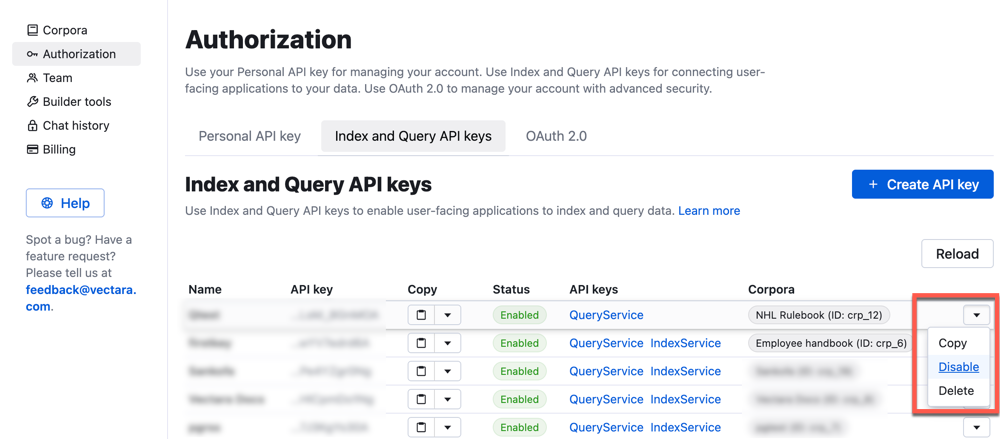
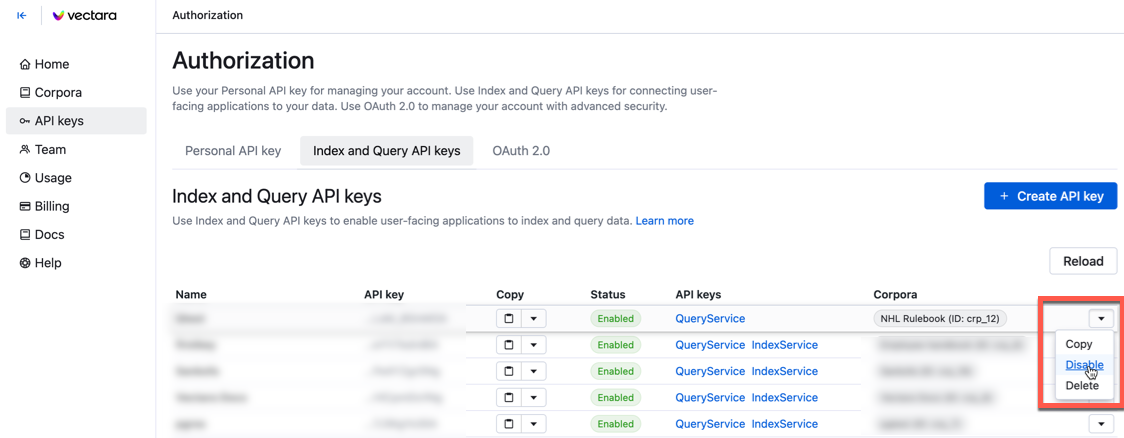
docs(enhance): Add detailed mapping of endpoints to required API key types (#477)

diff --git a/www/docs/learn/authentication/api-key-management.md b/www/docs/learn/authentication/api-key-management.md
@@ -43,8 +43,8 @@ This guide helps you:
 | API Key Type      | Key Prefix | Allowed Operations                  | Scope           | Recommended Usage                     |
 |-------------------|------------|-------------------------------------|------------------|----------------------------------------|
 | Personal Key      | `zut_`     | All user-level operations           | Account-wide     | Admin tasks, Developers for testing, internal scripts |
-| Query Key         | `zqt_`     | Read-only search                    | Corpus-specific  | Developers for public-facing search, front-end apps   |
-| Index Key         | `zwt_`     | Index and query                       | Corpus-specific  | Developers for ingestion and server-side testing       |
+| QueryService Key         | `zqt_`     | Read-only search                    | Corpus-specific  | Developers for public-facing search, front-end apps   |
+| IndexService Key         | `zwt_`     | Index and query                       | Corpus-specific  | Developers for ingestion and server-side testing       |
 
 ## Best practices
 
@@ -52,7 +52,7 @@ This guide helps you:
 - ✅ Apply the **principle of least privilege** by assigning the minimal set of 
   permissions needed to accomplish your goal
 - 🔄 Rotate API keys periodically and revoke unused ones
-- 🔒 Never embed Personal or Index keys in client-side code. Store them on your 
+- 🔒 Never embed Personal or IndexService keys in client-side code. Store them on your 
   server instead.
 
 ### Personal API key
@@ -79,18 +79,18 @@ billing admin-related permissions. Because of their broad access, treat
 Personal API Keys with the same caution as passwords.
 :::
 
-### Query API keys
+### QueryService API keys
 
-We recommend Query API keys for read-only querying operations and for 
+We recommend QueryService API keys for read-only querying operations and for 
 developers embedding in code that runs in potentially insecure environments 
 like web browsers or mobile apps. Query API Keys provide the least amount of 
 risk because they have a limited scope and do not modify account data.
 
-### Index API keys
+### IndexService API keys
 
-Index API Keys offer a practical solution for Developers and ML Engineers 
+IndexService API Keys offer a practical solution for Developers and ML Engineers 
 needing read and write access during development and testing phases. Because 
-they also provide write access, Index API Keys are more powerful than Query 
+they also provide write access, IndexService API Keys are more powerful than Query 
 API Keys and should be treated like passwords and used with caution in 
 production environments.
 
@@ -106,16 +106,91 @@ can lead to unauthorized access. Treat these keys with the same
 confidentiality as your personal credentials. 
 :::
 
+## Vectara API endpoints and required API key types
+
+This table lists all endpoints, HTTP methods, their summary, and which API key 
+types are allowed for each. 
+
+:::tip
+The Personal Key is always allowed anywhere a more restricted key is allowed 
+(except admin-only endpoints).
+:::
+
+| Method | Path | Summary | Allowed Key Types |
+|--------|------|---------|-------------------|
+| POST | `/v2/corpora` | Create a corpus | Personal Key |
+| GET | `/v2/corpora` | List corpora | QueryService Key, Personal Key |
+| GET | `/v2/corpora/{corpus_key}` | Retrieve metadata about a corpus | QueryService Key, Personal Key |
+| DELETE | `/v2/corpora/{corpus_key}` | Delete a corpus and all its data | Personal Key |
+| PATCH | `/v2/corpora/{corpus_key}` | Update a corpus | Personal Key |
+| POST | `/v2/corpora/{corpus_key}/reset` | Remove all documents and data in a corpus | Personal Key |
+| POST | `/v2/corpora/{corpus_key}/replace_filter_attributes` | Replace the filter attributes of a corpus | Personal Key |
+| POST | `/v2/corpora/{corpus_key}/compute_size` | Compute the current size of a corpus | Personal Key |
+| POST | `/v2/corpora/{corpus_key}/upload_file` | Upload a file to the corpus | Personal Key |
+| POST | `/v2/corpora/{corpus_key}/documents` | Add a document to a corpus | Personal Key |
+| GET | `/v2/corpora/{corpus_key}/documents` | List the documents in the corpus | QueryService Key, Personal Key |
+| DELETE | `/v2/corpora/{corpus_key}/documents/{document_id}` | Delete a document | Personal Key |
+| GET | `/v2/corpora/{corpus_key}/documents/{document_id}` | Retrieve a document | QueryService Key, Personal Key |
+| PATCH | `/v2/corpora/{corpus_key}/documents/{document_id}` | Update document, merging the metadata. | Personal Key |
+| PUT | `/v2/corpora/{corpus_key}/documents/{document_id}/metadata` | Replace the document metadata. | IndexService Key, Personal Key |
+| POST | `/v2/corpora/{corpus_key}/documents/{document_id}/summarize` | Summarize a document | Personal Key |
+| GET | `/v2/corpora/{corpus_key}/query` | Simple Single Corpus Query | QueryService Key, Personal Key |
+| POST | `/v2/corpora/{corpus_key}/query` | Advanced Single Corpus Query | QueryService Key, Personal Key |
+| POST | `/v2/query` | Multiple Corpora Query | QueryService Key, Personal Key |
+| GET | `/v2/queries/{query_id}` | Get a query history | QueryService Key, Personal Key |
+| GET | `/v2/queries` | List the history of previous queries | QueryService Key, Personal Key |
+| POST | `/v2/chats` | Start a chat | IndexService Key, Personal Key |
+| GET | `/v2/chats` | List chats | QueryService Key, Personal Key |
+| GET | `/v2/chats/{chat_id}` | Get a chat | QueryService Key, Personal Key |
+| DELETE | `/v2/chats/{chat_id}` | Delete a chat | Personal Key |
+| POST | `/v2/chats/{chat_id}/turns` | Create a new turn in the chat | IndexService Key, Personal Key |
+| GET | `/v2/chats/{chat_id}/turns` | List turns in a chat | QueryService Key, Personal Key |
+| GET | `/v2/chats/{chat_id}/turns/{turn_id}` | Get a turn | QueryService Key, Personal Key |
+| DELETE | `/v2/chats/{chat_id}/turns/{turn_id}` | Delete a turn | Personal Key |
+| PATCH | `/v2/chats/{chat_id}/turns/{turn_id}` | Update a turn | IndexService Key, Personal Key |
+| POST | `/v2/llms` | Create an LLM | IndexService Key, Personal Key |
+| GET | `/v2/llms` | List LLMs | QueryService Key, Personal Key |
+| GET | `/v2/llms/{llm_id}` | Get an LLM | QueryService Key, Personal Key |
+| DELETE | `/v2/llms/{llm_id}` | Delete an LLM | Personal Key |
+| POST | `/v2/llms/chat/completions` | Creates a model response for the given chat conversation | IndexService Key, Personal Key |
+| GET | `/v2/generation_presets` | List generation presets | QueryService Key, Personal Key |
+| POST | `/v2/evaluate_factual_consistency` | Evaluate factual consistency | Personal Key |
+| POST | `/v2/encoders` | Create an encoder | IndexService Key, Personal Key |
+| GET | `/v2/encoders` | List encoders | QueryService Key, Personal Key |
+| GET | `/v2/rerankers` | List rerankers | QueryService Key, Personal Key |
+| GET | `/v2/table_extractors` | List supported table extractors | QueryService Key, Personal Key |
+| GET | `/v2/hallucination_correctors` | List hallucination correctors | QueryService Key, Personal Key |
+| POST | `/v2/hallucination_correctors/correct_hallucinations` | Corrects hallucinations in generated text based on source documents | Personal Key |
+| GET | `/v2/jobs` | List jobs | QueryService Key, Personal Key |
+| GET | `/v2/jobs/{job_id}` | Get a job by ID | QueryService Key, Personal Key |
+| POST | `/v2/users` | Create a user in the current customer account | Personal Key |
+| GET | `/v2/users` | List users in the account | Personal Key |
+| GET | `/v2/users/{username}` | Get a user | Personal Key |
+| PATCH | `/v2/users/{username}` | Update a user | Personal Key |
+| DELETE | `/v2/users/{username}` | Delete a user | Personal Key |
+| POST | `/v2/users/{username}/reset_password` | Reset the password for a user | Personal Key |
+| POST | `/v2/api_keys` | Create an API key | Personal Key |
+| GET | `/v2/api_keys` | List API keys | Personal Key |
+| GET | `/v2/api_keys/{api_key_id}` | Get an API key | Personal Key |
+| PATCH | `/v2/api_keys/{api_key_id}` | Update an API key | Personal Key |
+| DELETE | `/v2/api_keys/{api_key_id}` | Delete an API key | Personal Key |
+| POST | `/v2/app_clients` | Create an App Client | IndexService Key, Personal Key |
+| GET | `/v2/app_clients` | List App Clients | QueryService Key, Personal Key |
+| GET | `/v2/app_clients/{app_client_id}` | Get an App Client | QueryService Key, Personal Key |
+| PATCH | `/v2/app_clients/{app_client_id}` | Update an App Client | IndexService Key, Personal Key |
+| DELETE | `/v2/app_clients/{app_client_id}` | Delete an App Client | Personal Key |
+| POST | `/oauth/token` | Request an access token | Personal Key |
+
 ## Create an API key
 
 You can easily create a [Personal API key](/docs/console-ui/personal-api-key) or 
-an [Index or Query API Key](/docs/console-ui/index-and-query-api-keys), 
+an [IndexService or QueryService API Key](/docs/console-ui/index-and-query-api-keys), 
 and then simply embed the API key and directly pass it to <Config v="names.product"/> when 
 issuing requests. 
 
 ## Use an API key
 
-To use a Personal, Index, or Query API key, pass it using the `x-api-key` 
+To use a Personal, IndexService, or QueryService API key, pass it using the `x-api-key` 
 header request.
 
 <Tabs
@@ -205,17 +280,18 @@ END
 </Tabs>
 
 ### Common issues and how to resolve them
+
 | Issue                            | Cause                                      | Fix                                               |
 |----------------------------------|--------------------------------------------|----------------------------------------------------|
 | 403: Permission Denied           | Key not scoped to corpus                   | Recreate key with correct `corpus_key`             |
 | 401: Unauthorized                | Invalid or missing key in header           | Ensure `x-api-key` is correctly included           |
-| Indexing fails with Query key   | Used wrong key type                        | Use Index (`zwt_`) or Personal (`zut_`) key        |
-| Personal key used in browser    | Security vulnerability                     | Use Query key for public search apps               |
+| Indexing fails with Query key   | Used wrong key type                        | Use IndexService (`zwt_`) or Personal (`zut_`) key        |
+| Personal key used in browser    | Security vulnerability                     | Use QueryService key for public search apps               |
 
 
 ## Disable, enable, and delete API keys
 
-To temporarily disable access to an API key, navigate to the **Authorization** tab. 
+To temporarily disable access to an API key, navigate to the **API keys** tab. 
 
 ### Disable a personal API key
 
@@ -224,12 +300,12 @@ the Personal API key from this menu.
 
 ![Disable Personal API Key](/img/disable_personal_api_key.png)
 
-### Disable an index or query API key
+### Disable an IndexService or QueryService key
 
 Click the **drop-down menu** and select **Disable**. This menu also lets you 
 copy, delete, and reenable the API key.
 
-![Disable Index or Query API Key](/img/disable_index_query_api_key.png)
+![Disable IndexService or QueryService API Key](/img/disable_index_query_api_key.png)
 
 It will take around a minute for query requests using this key to be blocked.
 

diff --git a/www/docs/learn/authentication/choose-auth-method.md b/www/docs/learn/authentication/choose-auth-method.md
@@ -38,14 +38,14 @@ with APIs or an Admin configuring secure access:
 | Scenario                                       | Recommended Method                     | Why This Works                                                                 | Workflows                                                                 |
 |-----------------------------------------------|---------------------------------------|--------------------------------------------------------------------------------|---------------------------------------------------------------------------------|
 | Explore the API or prototype                  | ✅ Personal API Key (`zut_`)          | Simplest setup <br/><br/>Grants full account access across corpora for testing.         | A Developer tests ingestion in a sandbox; an Admin creates corpora for setup.   |
-| Build a public search UI                      | ✅ Query API Key (`zqt_`)             | Read-only, corpus-scoped <br/><br/>Safe for frontend apps like web/mobile interfaces.   | An App Developer embeds search in a help center for End Users to browse FAQs.   |
-| Index documents securely from a backend       | ✅ Index API Key (`zwt_`)             | Enables indexing and querying <br/><br/>Secure for backend services if protected.       | An ML Engineer indexes CMS data for RAG optimization in a secure environment.  |
+| Build a public search UI                      | ✅ QueryService API Key (`zqt_`)             | Read-only, corpus-scoped <br/><br/>Safe for frontend apps like web/mobile interfaces.   | An App Developer embeds search in a help center for End Users to browse FAQs.   |
+| Index documents securely from a backend       | ✅ IndexService API Key (`zwt_`)             | Enables indexing and querying <br/><br/>Secure for backend services if protected.       | An ML Engineer indexes CMS data for RAG optimization in a secure environment.  |
 | Control client roles in production            | ✅ OAuth 2.0 Token (JWT)              | Role-based, expiring tokens (30 min) <br/><br/>Ideal for service-to-service access.     | A Dev Team Lead deploys a microservice querying corpora with user-specific roles. |
 | Automate token rotation                       | ✅ OAuth 2.0 Token (JWT)              | Built-in expiration reduces risk of long-lived credentials.                   | An Admin automates secure workflows for Client Apps.                           |
 | Prevent accidental key leaks                  | ✅ OAuth 2.0 Token (JWT)              | Short-lived tokens are harder to misuse <br/><br/>Detectable by security tools.         | A Client App serves End Users with minimal exposure risk.                       |
-| Access APIs beyond indexing/querying (e.g., admin tasks) | ✅ OAuth 2.0 Token (JWT)   | Supports broader permissions (such as corpus creation) with role-based control.  | An Admin manages API keys or corpora via secure tokens.                        |
+| Access APIs beyond indexing/querying (administration tasks) | ✅ OAuth 2.0 Token (JWT)   | Supports broader permissions (such as corpus creation) with role-based control.  | An Admin manages API keys or corpora via secure tokens.                        |
 | Secure backend server access                  | ✅ API Key (Server) or ✅ OAuth 2.0    | API keys work if secured <br/><br/>OAuth expiring tokens are safer for production.    | A Developer runs a backend service accessing corpora securely.                  |
-| Use in browser/client-side code               | ✅ Query API Key (`zqt_`)             | Read-only, safe for public exposure <br/><br/>OAuth unsuitable for frontend.            | A Developer builds a public UI for End Users to query a help center.           |
+| Use in browser/client-side code               | ✅ QueryService API Key (`zqt_`)             | Read-only, safe for public exposure <br/><br/>OAuth unsuitable for frontend.            | A Developer builds a public UI for End Users to query a help center.           |
 | Fine-grained access scopes                    | ✅ OAuth 2.0 Token (JWT)<br/><br/>⚠ API Keys: Corpus-level only       | OAuth offers role-based scoping per corpus/account for precise control.        | A Dev Team Lead sets precise access for a Client App; an Admin configures roles. |
 | Safe for long-term production use             | ✅ OAuth 2.0 Token (JWT)<br/><br/>⚠ API Keys: Use with care, rotate manually | OAuth expiring tokens are safer, reducing exposure risk.           | An Admin ensures long-term security for Client Apps; a Developer deploys safely. |
 
@@ -66,7 +66,7 @@ should be treated like passwords. Admins must avoid this risk in live systems.
 
 ### Public-facing query interface
 
-* **Use:** [Query API Key](/docs/learn/authentication/api-key-management#query-api-keys)
+* **Use:** [QueryService API Key](/docs/learn/authentication/api-key-management#query-api-keys)
 * **Why:** Read-only and scoped to specific corpora — safe for front-end embedding.
 * **Example:** An App Developer adding search to a marketing website or help center.
 
@@ -75,7 +75,7 @@ is required.
 
 ### Secure indexing and backend workloads
 
-* **Use:** [Index API Key](/docs/learn/authentication/api-key-management#index-api-keys)
+* **Use:** [IndexService API Key](/docs/learn/authentication/api-key-management#index-api-keys)
 * **Why:** Enables document ingestion and querying. Use in secure backend services.
 * **Example:** An ML Engineer optimizing RAG by indexing data from an internal CMS.
 

diff --git a/www/docs/learn/authentication/vectara-personas-and-access-patterns.md b/www/docs/learn/authentication/vectara-personas-and-access-patterns.md
@@ -49,7 +49,8 @@ method and authorization scope.
    |  |                 |  |                | |
    |  +----------------+   +----------------+ |
    |         |                  |             |
-   |      Manage Account     Query/Index      |
+   |      Manage Account     QueryService/    |
+   |         |               IndexService     |
    |         |                  |             |
    |         v                  v             |
    |    +---------------------------+         |
@@ -102,7 +103,7 @@ and their authentication/authorization scope.
 | Organizational role     | Tasks                                      | Primary Access Layer | How They Authenticate                          | Best Practices                                      | Common Mistakes to Avoid                     |
 |--------------|-------------------------------------------|----------------------|------------------------------------------------|----------------------------------------------------|---------------------------------------------|
 | **Admin**    | Manages and monitors system config, user access, corpora access, uptime | Console and Admin API | SSO (Google, SAML/OIDC), OAuth 2.0 and MFA, Personal API Key (`zut_`) | Enforce MFA, rotate keys regularly <br/><br/>Limit corpus access with RBAC | Using admin key in client-side apps <br/><br/>Reusing keys in production |
-| **Developer** | Builds apps and integrations, ingests data, tests APIs, tunes queries | Console and API      | SSO (Google, soon SAML/OIDC), Personal API Key (`zut_`), Query/Index API Keys (`zqt_`, `zwt_`), OAuth 2.0 | Start with read-only Query API keys (`zqt_`) for safe querying <br/><br/>Use separate corpora per environment, scope keys tightly, secure secrets, use training corpora for tests | Sharing keys across corpora <br/><br/>Accessing production corpora with broad keys <br/><br/>Reusing dev keys in production |
+| **Developer** | Builds apps and integrations, ingests data, tests APIs, tunes queries | Console and API      | SSO (Google, soon SAML/OIDC), Personal API Key (`zut_`), QueryService/IndexService API Keys (`zqt_`, `zwt_`), OAuth 2.0 | Start with read-only QueryService API keys (`zqt_`) for safe querying <br/><br/>Use separate corpora per environment, scope keys tightly, secure secrets, use training corpora for tests | Sharing keys across corpora <br/><br/>Accessing production corpora with broad keys <br/><br/>Reusing dev keys in production |
 | **End User** | Uses apps (RAG, search, chatbots)         | Client App Only      | SSO to app to Metadata filters with app logic (ABAC) | Apply ABAC filters <br/><br/>Validate identity in app        | Allowing direct Vectara access or unfiltered queries |
 
 ## Access scope and trust boundaries
@@ -138,7 +139,7 @@ developers, admins, and other team members.
    - **Corpus Admin**: Manages specific corpora, including creating, querying, and 
   indexing.
    - **Billing Admin**: Handles billing and subscription tasks.
-2. **Scope API Keys**: Assign Query (`zqt_`) or Index (`zwt_`) API keys to developers 
+2. **Scope API Keys**: Assign QueryService (`zqt_`) or IndexService (`zwt_`) API keys to developers 
    for corpus-specific access, simulating group-like permissions without native group 
    creation.
 3. **Custom Group Integration**: For enterprise setups, integrate with LDAP or SSO 
@@ -148,7 +149,7 @@ developers, admins, and other team members.
   onboarding in custom setups, streamlining access for large teams.
 
 ### Best practices
-- Start developers with read-only Query API keys (`zqt_`) for safe corpus 
+- Start developers with read-only QueryService API keys (`zqt_`) for safe corpus 
   querying, aligning with the principle of least privilege.
 - Assign Account Admin or Corpus Admin roles only to trusted users managing the 
   workspace or specific corpora.
@@ -156,13 +157,13 @@ developers, admins, and other team members.
   directory service to map groups to Vectara roles or keys.
 - Regularly audit invited users and API keys in the Vectara Console to ensure 
   authorized access.
-- Secure API keys as secrets, especially for Index (`zwt_`) or Personal (`zut_`) 
+- Secure API keys as secrets, especially for IndexService (`zwt_`) or Personal (`zut_`) 
   keys used by developers or admins.
 
 **Example**:
 - Invite a developer as a Corpus Admin to manage an HR corpus, granting them 
-  an Index API key (`zwt_`) for querying and indexing.
-- For a team of developers, issue multiple Query API keys (`zqt_`) scoped to the 
+  an IndexService API key (`zwt_`) for querying and indexing.
+- For a team of developers, issue multiple QueryService API keys (`zqt_`) scoped to the 
   same corpus, effectively creating a “developer group”.
 - If integration with LDAP, map an external group `Developers_HR` to Corpus 
   Admin roles for the HR corpus, automating access via SSO.

diff --git a/www/docs/learn/authentication/attribute-based-access-control.md b/www/docs/learn/authentication/attribute-based-access-control.md
@@ -44,7 +44,7 @@ ownership, group, role, or other attributes.
 - ✅ Use consistent metadata naming (e.g., `user_id`, `team`) across 
   corpora
 - ❌ Never allow users to provide arbitrary filter expressions
-- 🔒 Keep Query keys private; expose only through secure APIs
+- 🔒 Keep QueryService API keys private; expose only through secure APIs
 
 ## Configure attribute-based access control
 
@@ -102,4 +102,4 @@ This ensures access control remains enforced while supporting contextual filteri
 |-------------------------------|----------------------------------------------|
 | Filters are enforced per query, not at platform level | Rely on backend to inject correct filters |
 | No per-document ACLs          | Use metadata and filters instead               |
-| Query access gives full access | Scope keys narrowly and use ABAC consistently|
+| QueryService access gives full access | Scope keys narrowly and use ABAC consistently|
